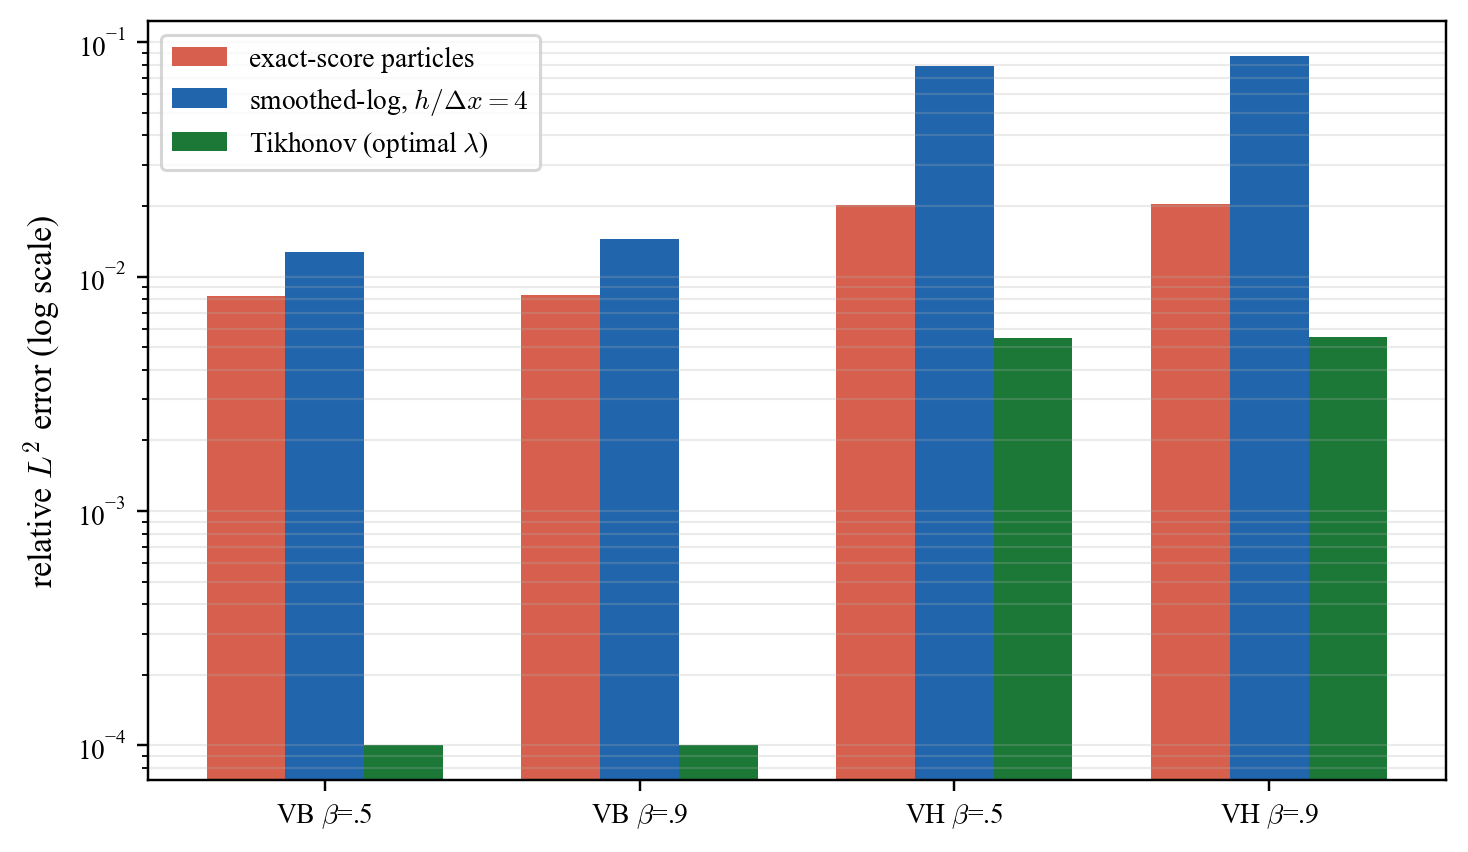
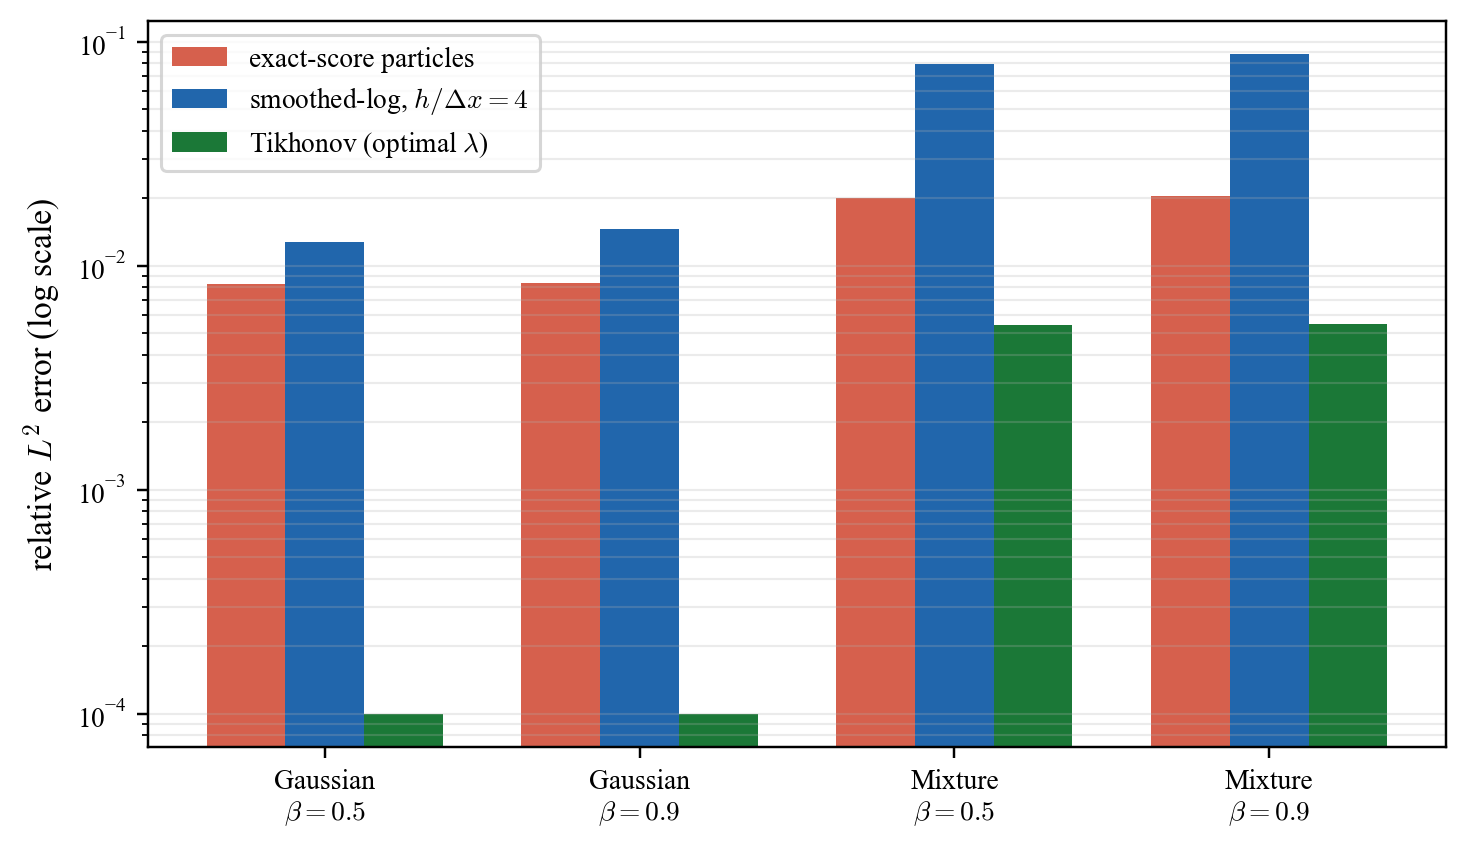
Fix tick labels in variable-results figure

diff --git a/make_figures.py b/make_figures.py
@@ -397,7 +397,8 @@ def fig_variable_results():
     if df is None:
         print("  [skip] variable_coeff metrics not found"); return
     cases = ["VB_beta05", "VB_beta09", "VH_beta05", "VH_beta09"]
-    disp = [r"VB $\beta$=.5", r"VB $\beta$=.9", r"VH $\beta$=.5", r"VH $\beta$=.9"]
+    disp = ["Gaussian\n" + r"$\beta=0.5$", "Gaussian\n" + r"$\beta=0.9$",
+            "Mixture\n" + r"$\beta=0.5$", "Mixture\n" + r"$\beta=0.9$"]
 
     def get(case, method):
         s = df[(df.case == case) & (df.method == method)]
